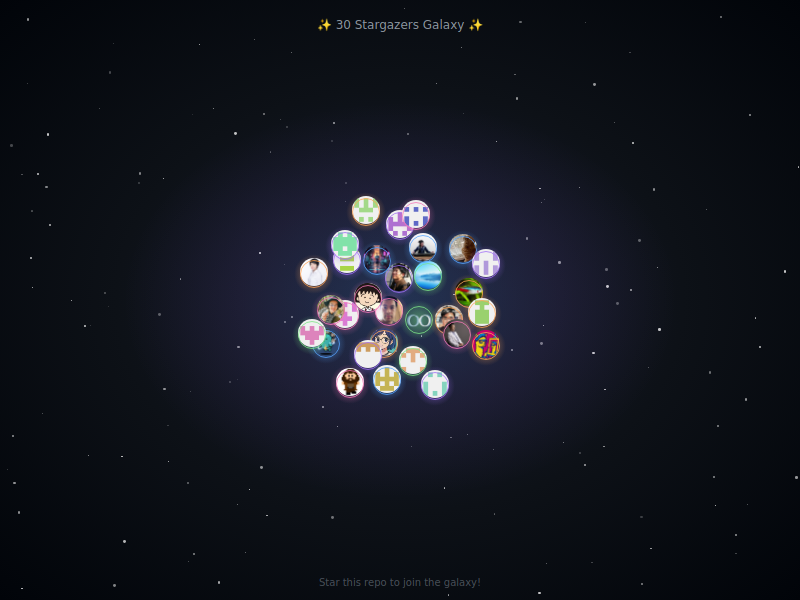
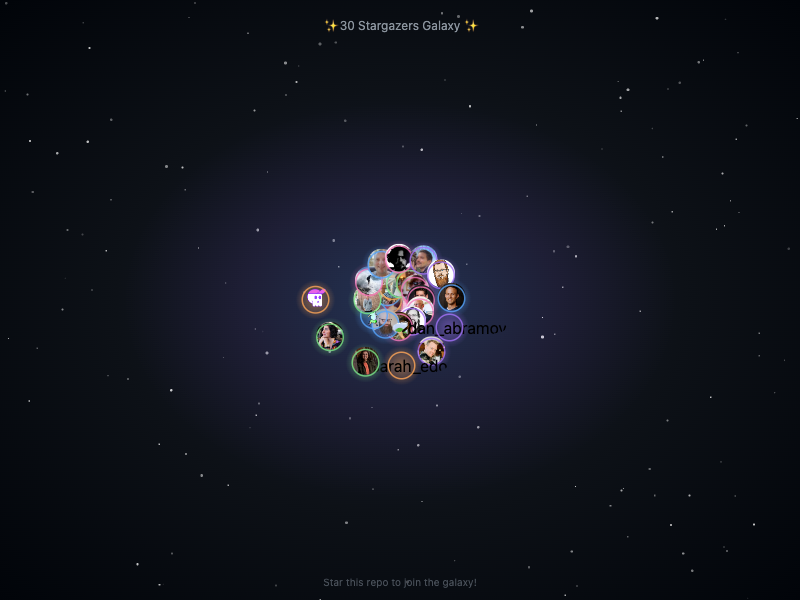
fix: 改用對數螺旋演算法，產生明顯的黃金螺旋曲線
- 舊演算法 Vogel 螺旋產生向日葵種子排列，不是視覺上的螺旋
- 新演算法 r = a * e^(b*θ) 產生經典黃金螺旋曲線
- 減少隨機偏移，保持螺旋形狀清晰
- 增加 demo 資料到 30 位使用者

🤖 Generated with [Claude Code](https://claude.com/claude-code)

Changed region(s): [[0.3438, 0.33, 0.625, 0.69], [0.4062, 0.03, 0.625, 0.06], [0.4062, 0.96, 0.5938, 0.99]]

diff --git a/scripts/generate-galaxy.js b/scripts/generate-galaxy.js
@@ -21,9 +21,11 @@ const CONFIG = {
   centerX: 400,
   centerY: 300,
 
-  // 黃金螺旋參數
-  goldenAngle: 137.508 * (Math.PI / 180), // 黃金角（弧度）
-  spiralScale: 18, // 螺旋擴散係數
+  // 黃金螺旋參數（對數螺旋）
+  phi: (1 + Math.sqrt(5)) / 2, // 黃金比例 φ ≈ 1.618
+  spiralA: 8, // 螺旋起始半徑
+  spiralGrowth: 0.15, // 螺旋增長率（每弧度）
+  angleStep: Math.PI / 6, // 每顆星之間的角度間隔（30度）
 
   // 星星樣式
   starSize: 28, // 頭像大小
@@ -52,19 +54,20 @@ function seededRandom(seed) {
 }
 
 // ============================================
-// 黃金螺旋座標計算
+// 黃金螺旋座標計算（對數螺旋）
 // ============================================
 function calculatePosition(index, username) {
   const rand = seededRandom(username);
 
-  // 基礎螺旋位置
+  // 對數螺旋公式：r = a * e^(b*θ)
+  // 這會產生經典的黃金螺旋曲線
   const n = index + 1;
-  const radius = CONFIG.spiralScale * Math.sqrt(n);
-  const angle = n * CONFIG.goldenAngle;
+  const angle = n * CONFIG.angleStep; // 累積角度
+  const radius = CONFIG.spiralA * Math.exp(CONFIG.spiralGrowth * angle);
 
-  // 加入隨機偏移，讓分佈更自然
-  const offsetRadius = radius + (rand() - 0.5) * 10;
-  const offsetAngle = angle + (rand() - 0.5) * 0.3;
+  // 微小隨機偏移（保持螺旋形狀但增加自然感）
+  const offsetRadius = radius + (rand() - 0.5) * 3;
+  const offsetAngle = angle + (rand() - 0.5) * 0.08;
 
   const x = CONFIG.centerX + offsetRadius * Math.cos(offsetAngle);
   const y = CONFIG.centerY + offsetRadius * Math.sin(offsetAngle);
@@ -133,7 +136,9 @@ function getDemoData() {
     'octocat', 'torvalds', 'gaearon', 'sindresorhus', 'tj',
     'yyx990803', 'addyosmani', 'paulirish', 'fat', 'mdo',
     'defunkt', 'mojombo', 'pjhyett', 'wycats', 'evanphx',
-    'tpope', 'mattn', 'junegunn', 'sharkdp', 'BurntSushi'
+    'tpope', 'mattn', 'junegunn', 'sharkdp', 'BurntSushi',
+    'antirez', 'rauchg', 'getify', 'kentcdodds', 'dan_abramov',
+    'wesbos', 'sarah_edo', 'cassidoo', 'una', 'argyleink'
   ];
 
   return demoUsers.map((username, index) => ({
